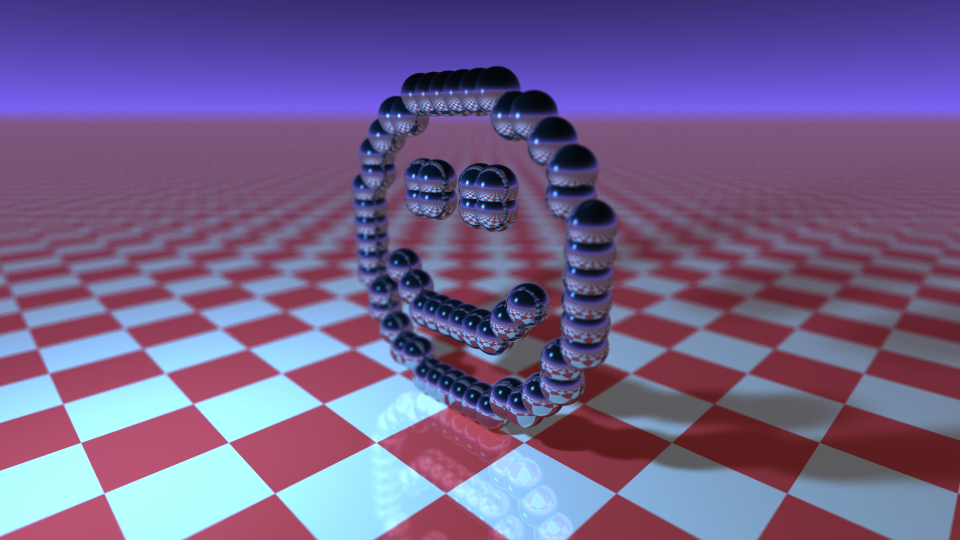
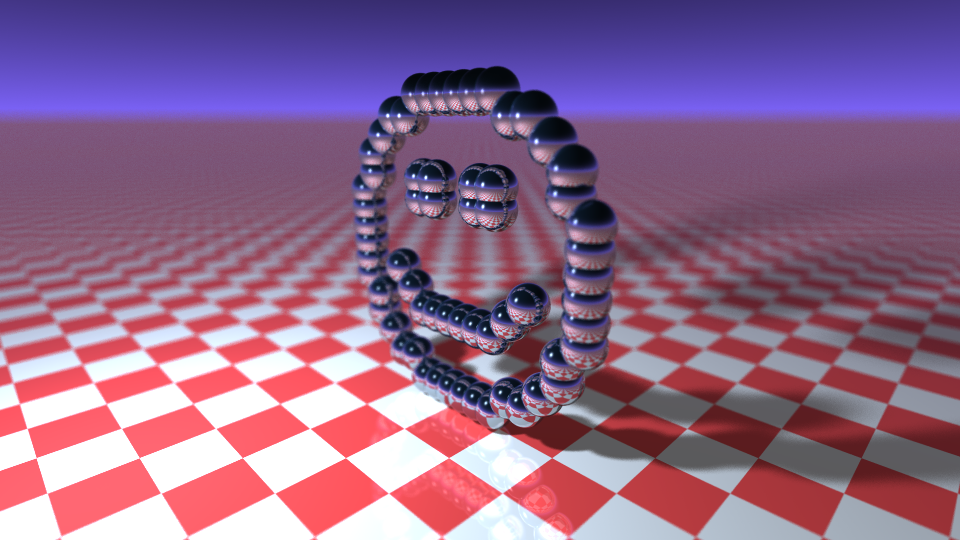
fixes & minor changes

diff --git a/src/03_rewritten/card.cc b/src/03_rewritten/card.cc
@@ -345,6 +345,8 @@ public:
         light_power     = float     (+15.0f);
         sky_color       = rt::col3f (+0.70f, +0.60f, +1.00f);
         sky_ambient     = rt::col3f (+0.35f, +0.35f, +0.35f);
+        floor_scale     = float     (0.2f);
+        floor_reflect   = float     (0.0f);
         sphere_radius   = float     (1.0f);
         sphere_color    = rt::col3f (+0.0f, +0.0f, +0.0f);
         sphere_reflect  = float     (0.7f);
@@ -383,6 +385,7 @@ public:
         light_power     = float     (+50.0f);
         sky_color       = rt::col3f (+0.70f, +0.60f, +1.00f);
         sky_ambient     = rt::col3f (+0.50f, +0.50f, +0.50f);
+        floor_scale     = float     (0.2f);
         floor_reflect   = float     (0.3f);
         sphere_radius   = float     (1.0f);
         sphere_color    = rt::col3f (+1.0f, +0.8f, +0.0f);
@@ -418,10 +421,11 @@ public:
         camera_dof      = float     (384.0f);
         camera_focus    = float     ( 24.0f);
         light_position  = rt::pos3f ( -5.0f, -15.0f, +16.0f);
-        light_color     = rt::col3f ( +0.3f,  +0.6f,  +0.9f);
+        light_color     = rt::col3f ( +0.7f,  +0.8f,  +0.9f);
         light_power     = float     (+50.0f);
         sky_color       = rt::col3f (+0.50f, +0.40f, +1.00f);
         sky_ambient     = rt::col3f (+0.50f, +0.50f, +0.50f);
+        floor_scale     = float     (0.3f);
         floor_reflect   = float     (0.3f);
         sphere_radius   = float     (1.0f);
         sphere_color    = rt::col3f (+0.1f, +0.2f, +0.3f);
@@ -511,7 +515,7 @@ rt::scene& get_scene(const std::string& scene_name)
 
     auto add_floor = [&]() -> bool
     {
-        std::unique_ptr<rt::floor> obj = std::make_unique<rt::floor> ( sd.floor_position
+        std::shared_ptr<rt::floor> obj = std::make_unique<rt::floor> ( sd.floor_position
                                                                      , sd.floor_normal
                                                                      , sd.floor_color1
                                                                      , sd.floor_color2
@@ -544,7 +548,7 @@ rt::scene& get_scene(const std::string& scene_name)
                     const float y = static_cast<float>(0);
                     const float z = static_cast<float>(rows - row) + row_offset;
                     const float r = sd.sphere_radius;
-                    std::unique_ptr<rt::sphere> obj = std::make_unique<rt::sphere> ( rt::pos3f(x, y, z)
+                    std::shared_ptr<rt::sphere> obj = std::make_unique<rt::sphere> ( rt::pos3f(x, y, z)
                                                                                    , sd.sphere_color
                                                                                    , r );
                     obj->reflect  = sd.sphere_reflect;

diff --git a/src/03_rewritten/card.h b/src/03_rewritten/card.h
@@ -856,8 +856,8 @@ public:
 
     virtual bool hit(const ray&, hit_result&) const = 0;
 
-    using pointer = std::unique_ptr<object>;
-    using vector  = std::vector<pointer>;
+    using shared_ptr = std::shared_ptr<object>;
+    using vector     = std::vector<shared_ptr>;
 
     float reflect;
     float refract;
